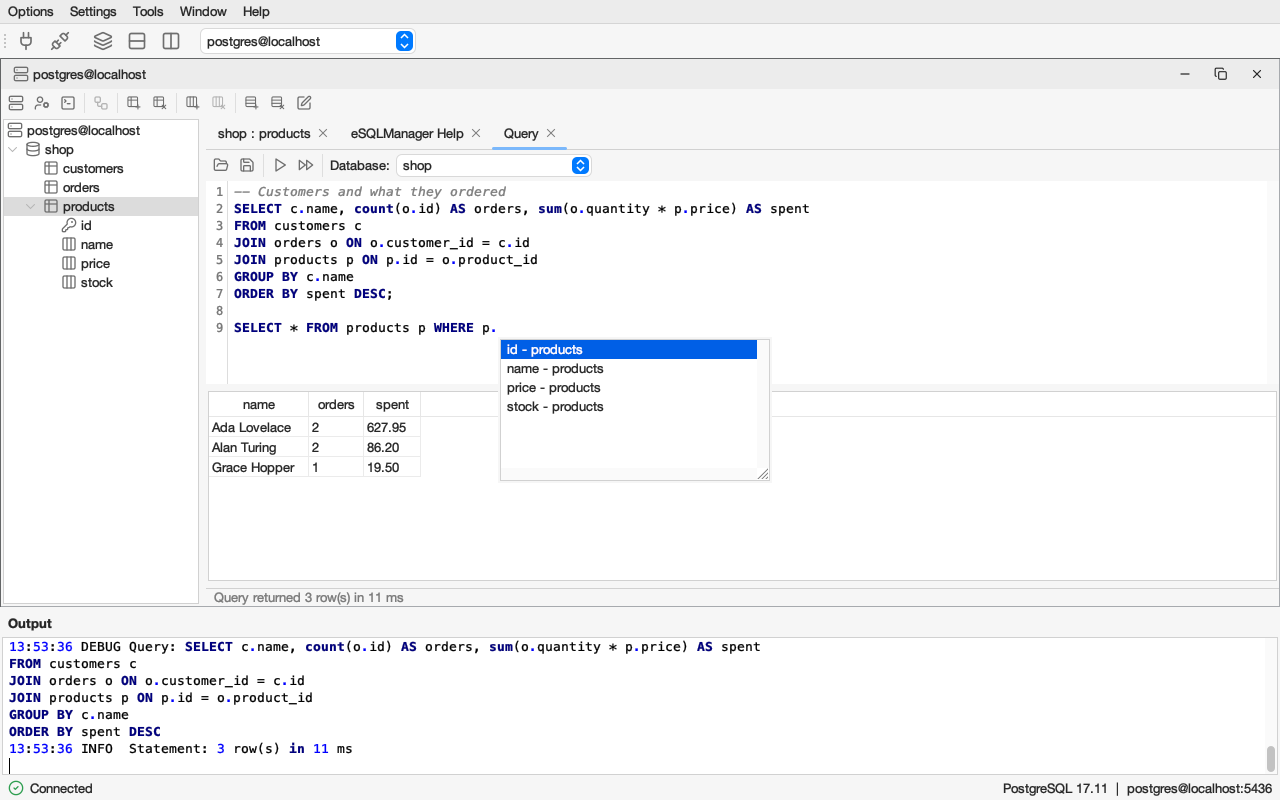
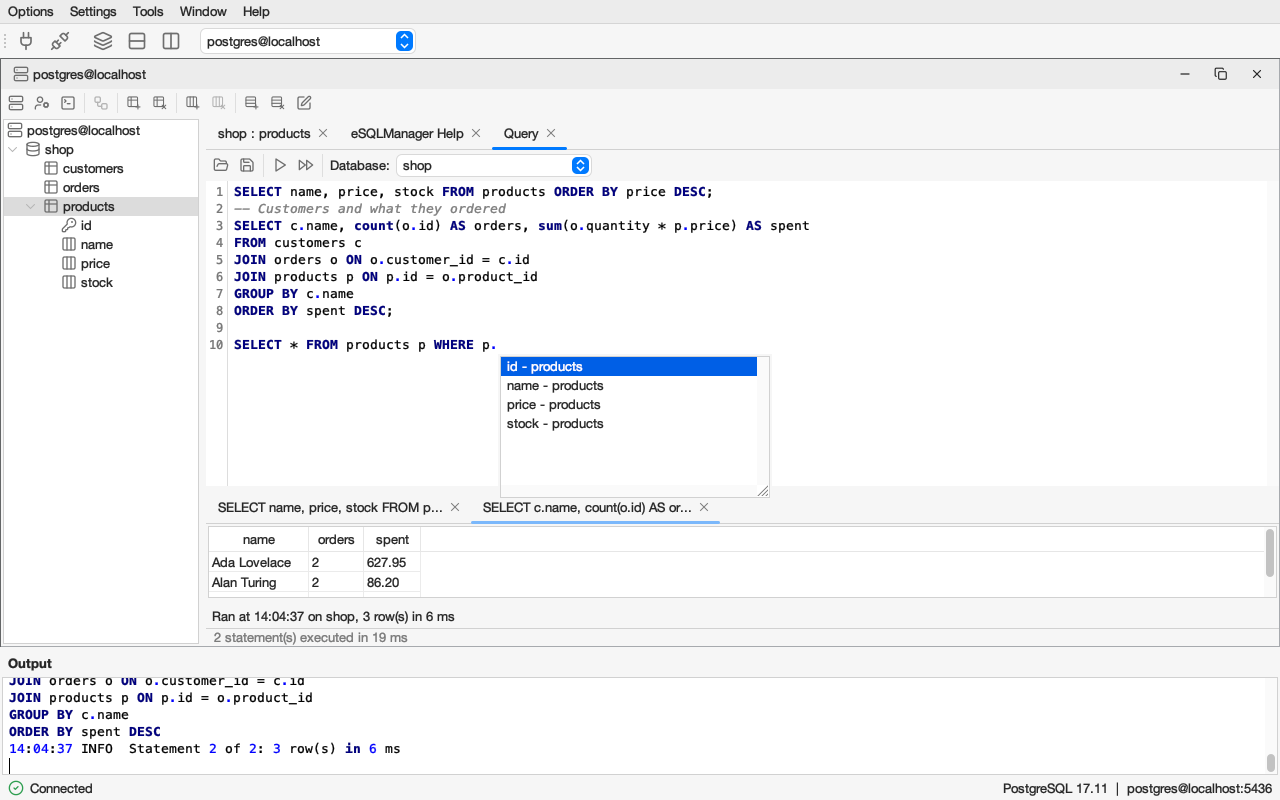
feat: query results in tabs, dark help pages, new screenshots and docs
Every statement that returns rows gets its own closable result tab,
named after the statement with the full text as tooltip and a line with
the time, database, rows and duration. The help tab follows the theme.
New docs/screenshot.png, docs/designer.png and docs/query.png; README
features, changelog and CLAUDE.md brought up to date.

Claude-Session: https://claude.ai/code/session_01TpgfMUNA4K1qpyx5mWFodg

diff --git a/src/main/java/nl/errorsoft/esql/help/ui/HelpPane.java b/src/main/java/nl/errorsoft/esql/help/ui/HelpPane.java
@@ -6,6 +6,8 @@ import nl.errorsoft.esql.ui.util.DesktopUtils;
 import org.apache.logging.log4j.LogManager;
 import org.apache.logging.log4j.Logger;
 
+import com.formdev.flatlaf.FlatLaf;
+
 import javax.swing.*;
 import javax.swing.event.HyperlinkEvent;
 import javax.swing.text.html.HTMLDocument;
@@ -17,13 +19,11 @@ import java.io.StringReader;
 /** Shows the Markdown help pages from docs/. Links to other pages stay in the pane, web links open in the browser. */
 public class HelpPane extends JEditorPane {
 	private static final Logger log = LogManager.getLogger(HelpPane.class);
+	private String page;
 
 	public HelpPane() {
 		setEditable(false);
 		setContentType("text/html");
-		// The pages are written for a white page, FlatLaf paints a read-only pane grey.
-		setBackground(Color.white);
-		setForeground(Color.black);
 		addHyperlinkListener(e -> {
 			if (e.getEventType() == HyperlinkEvent.EventType.ACTIVATED) {
 				follow(e.getDescription());
@@ -32,14 +32,27 @@ public class HelpPane extends JEditorPane {
 		show(HelpPages.INDEX);
 	}
 
+	/** Shows the page again in the colours of the new look and feel. */
+	@Override
+	public void updateUI() {
+		super.updateUI();
+		if (page != null) {
+			show(page);
+		}
+	}
+
 	/** Shows a page of docs/ by its file name, for example "query.md". */
 	public void show(String name) {
+		page = name;
+		boolean dark = FlatLaf.isLafDark();
+		// FlatLaf paints a read-only pane grey, the page has the background of its stylesheet.
+		setBackground(dark ? new Color(0x1e1f22) : Color.white);
 		try {
 			HTMLEditorKit kit = (HTMLEditorKit) getEditorKit();
 			HTMLDocument document = (HTMLDocument) kit.createDefaultDocument();
 			// Images are relative to the page.
 			document.setBase(HelpPages.resource(name));
-			kit.read(new StringReader(HelpPages.render(name)), document, 0);
+			kit.read(new StringReader(HelpPages.render(name, dark)), document, 0);
 			setDocument(document);
 			setCaretPosition(0);
 		} catch (IOException | javax.swing.text.BadLocationException | RuntimeException e) {

diff --git a/src/main/java/nl/errorsoft/esql/help/HelpPages.java b/src/main/java/nl/errorsoft/esql/help/HelpPages.java
@@ -90,19 +90,33 @@ public final class HelpPages {
 
 	/** Reads a page from the classpath and renders it. */
 	public static String render(String name) {
+		return render(name, false);
+	}
+
+	/** Reads a page from the classpath and renders it, with dark colours when asked. */
+	public static String render(String name, boolean dark) {
 		URL url = resource(name);
 		if (url == null) {
 			throw new IllegalArgumentException("No help page " + name);
 		}
 		try (InputStream in = url.openStream()) {
-			return toHtml(new String(in.readAllBytes(), StandardCharsets.UTF_8));
+			return toHtml(new String(in.readAllBytes(), StandardCharsets.UTF_8), dark);
 		} catch (IOException e) {
 			throw new UncheckedIOException(e);
 		}
 	}
 
+	/** The help stylesheet with dark colours, for a dark look and feel. */
+	private static final String DARK_STYLE = STYLE.replace("color: #000000; background-color: #ffffff", "color: #dfe1e5; background-color: #1e1f22")
+		.replace("color: #24292f", "color: #e6e6e6").replace("#f3f4f6", "#2b2d30").replace("#eef0f3", "#2b2d30").replace("#0b57d0", "#6ea8fe");
+
 	/** Renders Markdown to a complete HTML page with the help stylesheet. */
 	public static String toHtml(String markdown) {
+		return toHtml(markdown, false);
+	}
+
+	/** Renders Markdown to a complete HTML page, with dark colours when asked. */
+	public static String toHtml(String markdown, boolean dark) {
 		HtmlRenderer renderer = HtmlRenderer.builder().extensions(EXTENSIONS).attributeProviderFactory(context -> (node, tagName, attributes) -> {
 			if (node instanceof Image) {
 				scale(attributes);
@@ -113,7 +127,7 @@ public final class HelpPages {
 			}
 		}).build();
 		String body = renderer.render(PARSER.parse(markdown));
-		return "<html><head><style type=\"text/css\">" + STYLE + "</style></head><body>" + body + "</body></html>";
+		return "<html><head><style type=\"text/css\">" + (dark ? DARK_STYLE : STYLE) + "</style></head><body>" + body + "</body></html>";
 	}
 
 	/** Gives a local image a width and height that fit the page. */

diff --git a/CLAUDE.md b/CLAUDE.md
@@ -12,7 +12,7 @@ Java Swing database manager (originally an Errorsoft graduation project, 2002-20
 
 ## Finishing a change
 
-* Update `README.md` and `changelog.txt`, and retake `docs/screenshot.png` and `docs/designer.png` when the UI changed, before reporting a change as done.
+* Update `README.md` and `changelog.txt`, and retake `docs/screenshot.png`, `docs/designer.png` and `docs/query.png` when the UI changed, before reporting a change as done.
 
 ## Design decisions
 
@@ -38,10 +38,12 @@ Java Swing database manager (originally an Errorsoft graduation project, 2002-20
 
 * Look and feel is FlatLaf, chosen through `app.Appearance` (Follow the system, Light, Dark, Native) and stored in `conf/settings.xml` (`<appearance>`), changed in Settings > Preferences and applied at once. On macOS FlatLaf uses its Mac themes, `Main` sets the screen menu bar and system appearance properties before the first window (`Appearance.prepareDesktop`). The native macOS look was far too slow when resizing, so it is only used when the user picks Native.
 * Use Swing only, no AWT widgets (`Label`, `Button`, ...). Dialogs use layout managers, not null layouts with absolute bounds; `ui.util.Forms` gives the 12px padding, the button row at the bottom right, titled groups and a label/field grid. Only the designer canvas (`ModelViewer`, its cards, the text inside a `CommentObject`), internal frames placed by `DesktopUtils` and the splash (credits scrolled over a fixed image) place components at absolute positions.
-* Do not hardcode `Color.white` or `Color.gray`. Take colours from `UIManager`. A read-only `JTextPane` is painted grey by FlatLaf, set its background explicitly.
+* Do not hardcode `Color.white` or `Color.gray`. Take colours from `UIManager` (grid lines `Table.gridColor`). A read-only `JTextPane` is painted grey by FlatLaf, set its background explicitly.
+* The help tab (`help.ui.HelpPane`) renders the Markdown of docs/ with `HelpPages.render(name, dark)`: a white page in light themes, a dark one in dark themes, rendered again when the look and feel changes.
+* Settings has only the appearance; there is no auto-update.
 * Swing is touched on the event thread. `ESQLManagerUI.print` and `setStatusInfo` marshal themselves with `invokeLater`.
 * The query editor is an `RSyntaxTextArea` (com.fifesoft) in an `RTextScrollPane` with SQL highlighting, line numbers and the library's undo. `ui.EditorTheme.install` gives it the RSyntaxTextArea theme `idea.xml` or `dark.xml` matching `FlatLaf.isLafDark()` and applies it again when the look and feel changes.
-* The SQL query is a tab of the connection window (`query.ui.QueryUI`, a `JPanel`, opened by `ConnectionWindowCC.startQueryUI` through `ConnectionWindowUI.showQueryTab`, numbered "Query", "Query 2", ...). Its controller `query.control.QueryCC` runs statements (stops at the first error, reports it through `ErrorHandler` naming the statement) and implements `query.SchemaNames` for the completion, caching the tables (loaded on a virtual thread when the database is chosen) and the columns per tab. Closing the tab calls `QueryUI.close()`, which uninstalls the completion; the `EditorTheme` listener goes when the editor stops being displayable.
+* The SQL query is a tab of the connection window (`query.ui.QueryUI`, a `JPanel`, opened by `ConnectionWindowCC.startQueryUI` through `ConnectionWindowUI.showQueryTab`, numbered "Query", "Query 2", ...). Its controller `query.control.QueryCC` runs statements (stops at the first error, reports it through `ErrorHandler` naming the statement) and returns a `QueryCC.StatementResult` per statement with rows, which `QueryUI` shows as a closable result tab (title the statement, tooltip the full text, a line with time, database, rows and duration; at most 20). It implements `query.SchemaNames` for the completion, caching the tables (loaded on a virtual thread when the database is chosen) and the columns per tab. Closing the tab calls `QueryUI.close()`, which uninstalls the completion; the `EditorTheme` listener goes when the editor stops being displayable.
 * `query.SqlScript` splits a script on `;` outside quotes, dollar quotes and comments and finds the statement at the caret; `query.SqlContext` is a small tokenizer that tells what fits at the caret (tables, columns of an alias or table, anything) and resolves aliases. Both are pure and unit tested.
 * Completion uses the RSyntaxTextArea AutoComplete library (`com.fifesoft:autocomplete`, the release that matches rsyntaxtextarea), with `query.ui.SqlCompletionProvider`. Names that are not plain lower case identifiers go through `dialect.quote`.
 * Query shortcuts: menu key (Cmd/Ctrl)+Enter runs the selection or the statement at the caret, +Shift+Enter runs all; Ctrl+Space, Meta+Space and menu key+Shift+Space open the completion (macOS reserves Cmd+Space for Spotlight unless the user turns that off).
@@ -94,7 +96,7 @@ Java Swing database manager (originally an Errorsoft graduation project, 2002-20
 
 ## Verifying UI changes
 
-* Retake `docs/screenshot.png` and `docs/designer.png` with a harness that paints the windows in-process against a Postgres container (use a free host port, 5432 is often taken), preferably in a subagent so the images stay out of the main context. Look at the result, check icons, alignment and the status bar.
+* Retake `docs/screenshot.png`, `docs/designer.png` and `docs/query.png` with a harness that paints the windows in-process against a Postgres container (use a free host port, 5432 is often taken), preferably in a subagent so the images stay out of the main context. Look at the result, check icons, alignment and the status bar.
 * The designer can be checked without a database: build a `Model` in a harness, add it to a `ModelViewer` (`new ModelViewerControl(null)` is enough), paint it to a `BufferedImage` with `FlatLightLaf` and `FlatDarkLaf` and look at both.
 
 ## Tests
@@ -146,4 +148,5 @@ Features and their packages (all under `nl.errorsoft.esql`; each has `control` a
 
 ## Known technical debt
 
+* The automatic layout of the designer can order tables so that foreign key connectors cross (shop: products above customers).
 * SQL Server and Oracle dialects only browse; their DDL, user management and maintenance are not implemented.

diff --git a/README.md b/README.md
@@ -31,6 +31,7 @@ Each database has its own dialect (`nl.errorsoft.esql.dialect`) that decides how
 | Upload and download binary data (blobs) | yes | yes | yes | yes |
 | SQL query tabs with syntax highlighting, opening and saving .sql files | yes | yes | yes | yes |
 | Run selection or the statement at the caret, run all statements of a script | yes | yes | yes | yes |
+| Query results in tabs, one per statement, with time, database, rows and duration | yes | yes | yes | yes |
 | Auto completion of keywords, tables and columns (aliases resolved) | yes | yes | yes | yes |
 | Create a database | yes | yes | yes | no |
 | Drop a database | yes | yes | yes | no |
@@ -55,8 +56,10 @@ Each database has its own dialect (`nl.errorsoft.esql.dialect`) that decides how
 | Server variables | yes | yes | no | no |
 | Output panel with connection details and executed queries | yes | yes | yes | yes |
 | Status bar with server, account and the last action | yes | yes | yes | yes |
+| Light and dark themes, following the system | yes | yes | yes | yes |
+| Help tab with the Markdown documentation of docs/ | yes | yes | yes | yes |
 
-The SQL query opens as a tab of the connection window ("Query", "Query 2", ...). Shortcuts in the editor: Cmd+Enter (Ctrl+Enter on Windows and Linux) runs the selection or the statement at the caret, Cmd+Shift+Enter runs all statements in order and stops at the first error; Ctrl+Space, Cmd+Space and Cmd+Shift+Space (Ctrl+Shift+Space elsewhere) open the completion, typing a period after a table or alias opens its columns. macOS gives Cmd+Space to Spotlight; turn that shortcut off in System Settings > Keyboard > Keyboard Shortcuts > Spotlight to use it for completion.
+The SQL query opens as a tab of the connection window ("Query", "Query 2", ...). Every statement that returns rows gets its own result tab below the editor, named after the statement (hover for the full text), with when it ran, on which database, the row count and the time taken; the newest is in front and at most 20 are kept. Shortcuts in the editor: Cmd+Enter (Ctrl+Enter on Windows and Linux) runs the selection or the statement at the caret, Cmd+Shift+Enter runs all statements in order and stops at the first error; Ctrl+Space, Cmd+Space and Cmd+Shift+Space (Ctrl+Shift+Space elsewhere) open the completion, typing a period after a table or alias opens its columns. macOS gives Cmd+Space to Spotlight; turn that shortcut off in System Settings > Keyboard > Keyboard Shortcuts > Spotlight to use it for completion.
 
 Right click a server, database, table or column in the tree for its context menu. It only lists what the server supports: Users, Process list, Status and Variables on the server, Open in designer, Export and Import on a database, Edit, Indexes and the maintenance commands (Optimize and Analyze, plus Check and Repair on MySQL) on a table.
 
